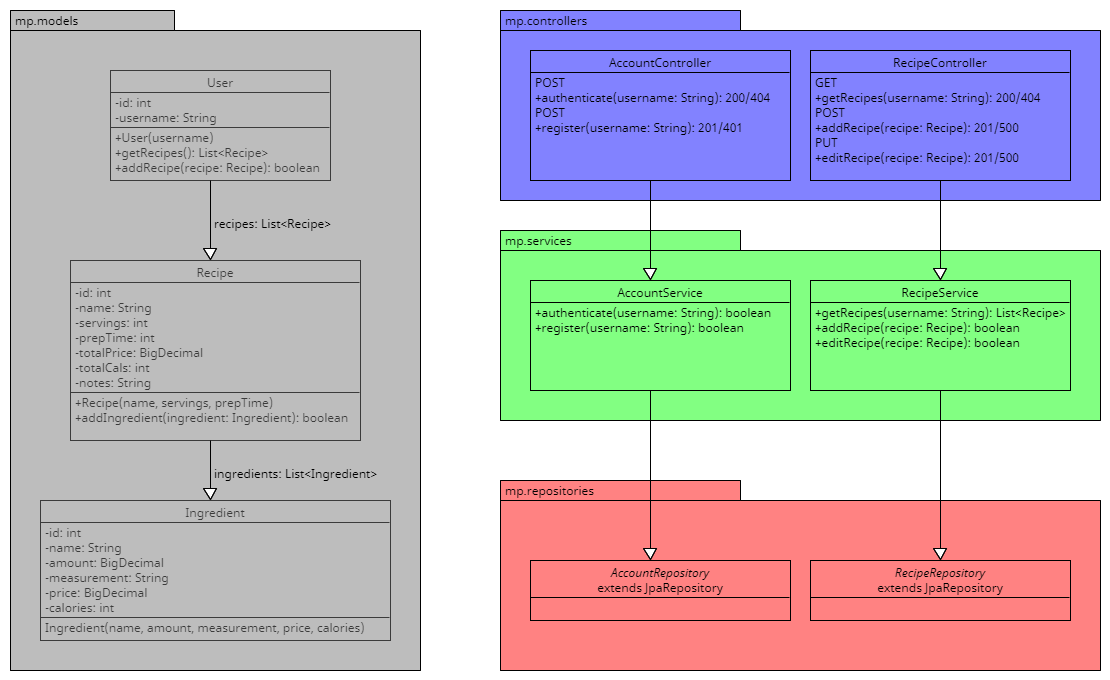
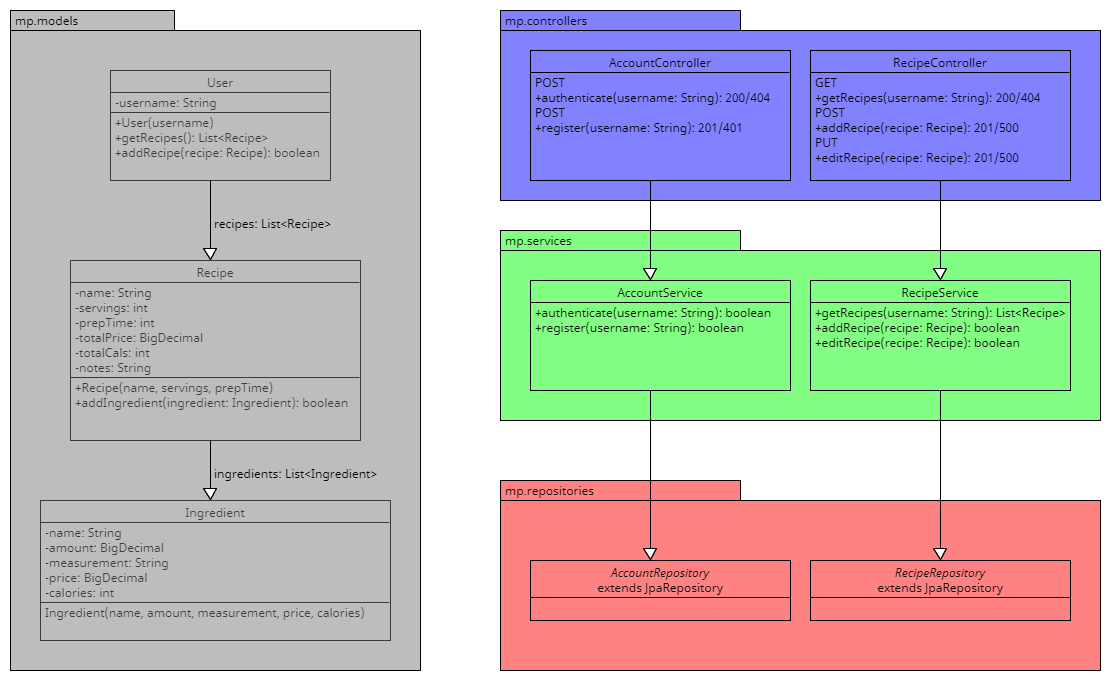
Added controller, service, repository structure. Got /login endpoint working.

Changed region(s): [[0.0613, 0.4324, 0.3063, 0.6176], [0.0306, 0.7721, 0.3369, 0.9265], [0.0919, 0.1544, 0.2757, 0.2471]]

diff --git a/MealPlanner/src/main/java/com/nico/mp/controllers/UserController.java b/MealPlanner/src/main/java/com/nico/mp/controllers/UserController.java
@@ -1,0 +1,29 @@
+package com.nico.mp.controllers;
+
+import org.springframework.beans.factory.annotation.Autowired;
+import org.springframework.http.HttpStatus;
+import org.springframework.http.ResponseEntity;
+import org.springframework.web.bind.annotation.GetMapping;
+import org.springframework.web.bind.annotation.RequestBody;
+import org.springframework.web.bind.annotation.RequestMapping;
+import org.springframework.web.bind.annotation.RestController;
+
+import com.nico.mp.domain.LoginRequest;
+import com.nico.mp.services.UserService;
+
+@RestController
+@RequestMapping("/user")
+public class UserController {
+	
+	@Autowired
+	private UserService userService;
+	
+	@GetMapping("/login")
+	public ResponseEntity<Long> login(@RequestBody LoginRequest loginRequest) {
+		return new ResponseEntity<Long>(
+			userService.getUserId(loginRequest.getUsername(), loginRequest.getPassword()),
+			HttpStatus.OK
+		);
+	}
+	
+}

diff --git a/MealPlanner/src/main/java/com/nico/mp/services/impl/UserServiceImpl.java b/MealPlanner/src/main/java/com/nico/mp/services/impl/UserServiceImpl.java
@@ -1,0 +1,30 @@
+package com.nico.mp.services.impl;
+
+import java.util.Optional;
+
+import javax.transaction.Transactional;
+
+import org.springframework.beans.factory.annotation.Autowired;
+import org.springframework.stereotype.Service;
+
+import com.nico.mp.domain.User;
+import com.nico.mp.repositories.UserRepository;
+import com.nico.mp.services.UserService;
+
+@Service
+@Transactional
+public class UserServiceImpl implements UserService {
+	
+	@Autowired
+	private UserRepository userRepository;
+	
+	public UserServiceImpl() {}
+
+	@Override
+	public long getUserId(String username, String password) {
+		Optional<User> user = userRepository.findUser(username, password);
+		
+		return user.isPresent() ? user.get().getId() : 0;
+	}
+
+}

diff --git a/MealPlanner/src/main/java/com/nico/mp/MealPlannerApplication.java b/MealPlanner/src/main/java/com/nico/mp/MealPlannerApplication.java
@@ -2,10 +2,14 @@ package com.nico.mp;
 
 import org.springframework.boot.SpringApplication;
 import org.springframework.boot.autoconfigure.SpringBootApplication;
+import org.springframework.boot.autoconfigure.domain.EntityScan;
+import org.springframework.context.annotation.ComponentScan;
+import org.springframework.data.jpa.repository.config.EnableJpaRepositories;
 
 @SpringBootApplication
+//@EnableJpaRepositories("com.nico.mp.repositories")
 public class MealPlannerApplication {
-
+	
 	public static void main(String[] args) {
 		SpringApplication.run(MealPlannerApplication.class, args);
 	}

diff --git a/MealPlanner/src/main/java/com/nico/mp/repositories/UserRepository.java b/MealPlanner/src/main/java/com/nico/mp/repositories/UserRepository.java
@@ -1,0 +1,18 @@
+package com.nico.mp.repositories;
+
+import java.util.Optional;
+
+import org.springframework.data.jpa.repository.Query;
+import org.springframework.data.repository.CrudRepository;
+import org.springframework.data.repository.query.Param;
+import org.springframework.stereotype.Repository;
+
+import com.nico.mp.domain.User;
+
+@Repository
+public interface UserRepository extends CrudRepository<User, Long> {
+	
+	@Query("SELECT u FROM User u WHERE u.username=?1 AND u.password=?2")
+	public Optional<User> findUser(String username, String password);
+
+}

diff --git a/MealPlanner/src/main/java/com/nico/mp/domain/User.java b/MealPlanner/src/main/java/com/nico/mp/domain/User.java
@@ -1,0 +1,22 @@
+package com.nico.mp.domain;
+
+import javax.persistence.Entity;
+import javax.persistence.Id;
+import javax.persistence.Table;
+
+import lombok.Getter;
+import lombok.Setter;
+
+@Entity
+@Getter
+@Setter
+public class User {
+	
+	@Id
+	private long id;
+	
+	private String username;
+	
+	private String password;
+
+}

diff --git a/MealPlanner/src/main/java/com/nico/mp/domain/LoginRequest.java b/MealPlanner/src/main/java/com/nico/mp/domain/LoginRequest.java
@@ -1,0 +1,14 @@
+package com.nico.mp.domain;
+
+import lombok.Getter;
+import lombok.Setter;
+
+@Getter
+@Setter
+public class LoginRequest {
+	
+	private String username;
+	
+	private String password;
+
+}

diff --git a/MealPlanner/src/main/java/com/nico/mp/services/UserService.java b/MealPlanner/src/main/java/com/nico/mp/services/UserService.java
@@ -1,0 +1,7 @@
+package com.nico.mp.services;
+
+public interface UserService {
+	
+	public long getUserId(String username, String password);
+
+}

diff --git a/MealPlanner/src/main/java/com/nico/mp/controllers/IngredientController.java b/MealPlanner/src/main/java/com/nico/mp/controllers/IngredientController.java
@@ -1,0 +1,5 @@
+package com.nico.mp.controllers;
+
+public class IngredientController {
+
+}

diff --git a/MealPlanner/src/main/java/com/nico/mp/controllers/RecipeController.java b/MealPlanner/src/main/java/com/nico/mp/controllers/RecipeController.java
@@ -1,0 +1,5 @@
+package com.nico.mp.controllers;
+
+public class RecipeController {
+
+}
